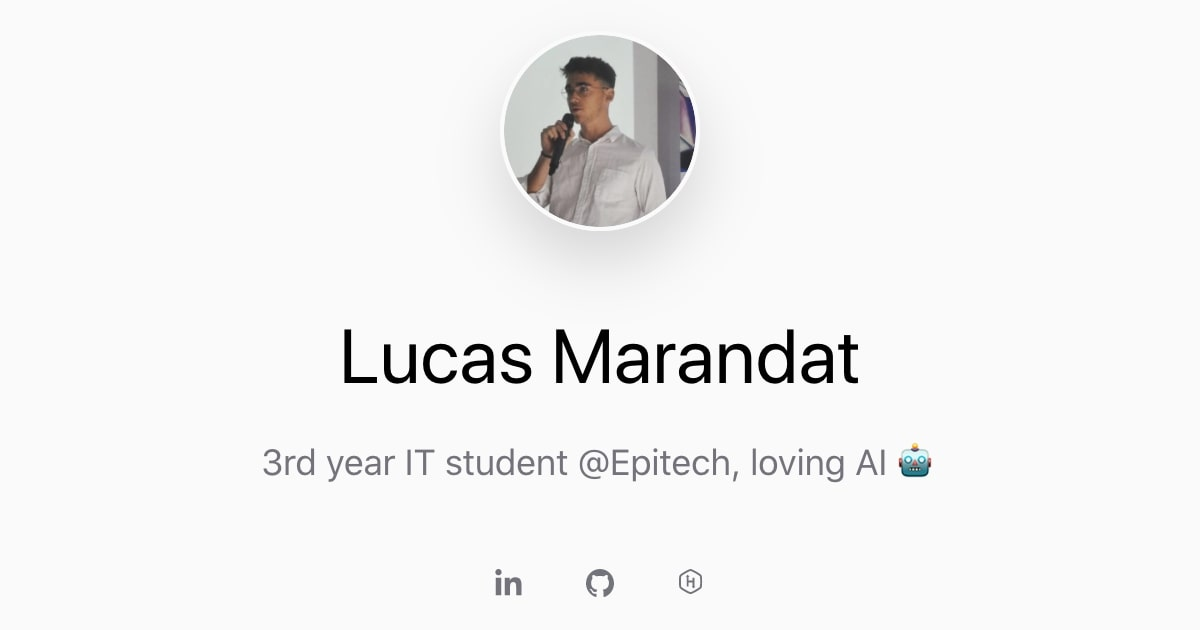
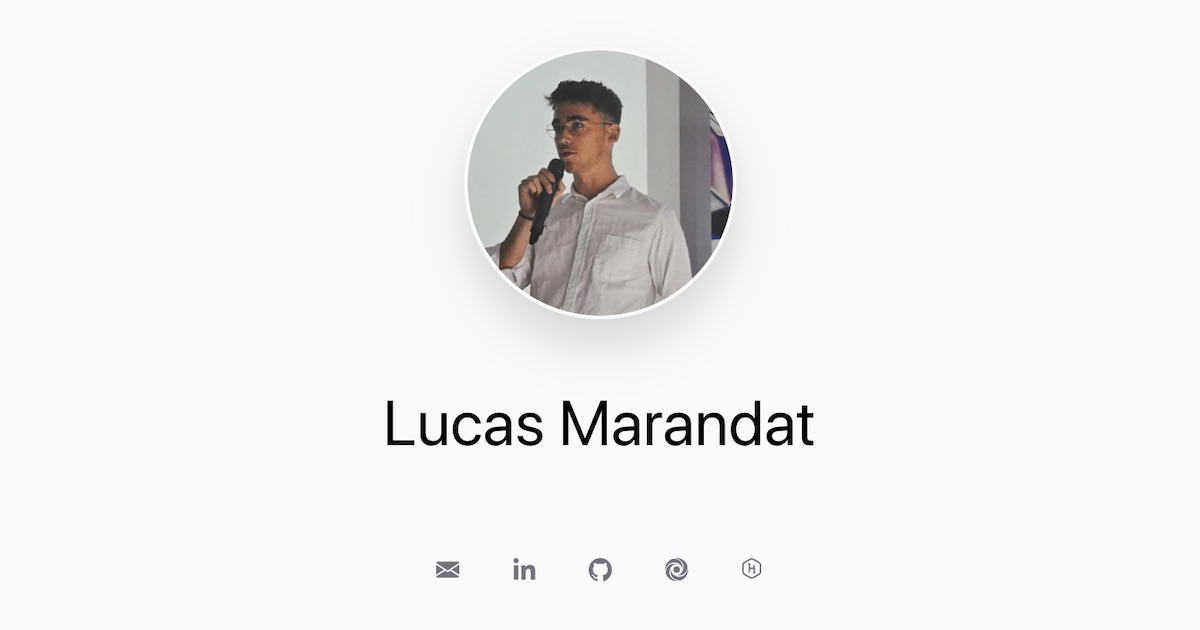
add social links and upgrade theme

diff --git a/src/@narative/gatsby-theme-novela/icons/social/Replit.icon.tsx b/src/@narative/gatsby-theme-novela/icons/social/Replit.icon.tsx
@@ -1,0 +1,26 @@
+import React from 'react';
+
+import {Icon} from '@types';
+
+const ReplitIcon: Icon = ({fill = 'white'}) => (
+  <svg
+    xmlns="http://www.w3.org/2000/svg"
+    viewBox="0 0 64 64"
+    width="14"
+    height="14">
+    <g fill={fill}>
+      <path d="M63.795 29.012l.148 2.933c0-1-.06-1.966-.148-2.933z" />
+      <path d="M16.405 28.843s-8.882 32.73 26.722 33.015a31.94 31.94 0 0 0 20.65-26.646c.086-.85.112-1.717.13-2.586l.034-.68c0-1-.06-1.966-.148-2.933-9.405 37.03-51.018 22.525-47.388-.17z" />
+    </g>
+    <path
+      d="M34.816 16.694S1.668 7.44 2.175 43.583c1.7 4.368 4.336 8.31 7.725 11.55.14.135.3.262.434.395.96.884 1.97 1.708 3.03 2.47.164.118.32.246.484.362a31.81 31.81 0 0 0 3.497 2.076c.35.18.7.346 1.07.514a31.61 31.61 0 0 0 3.194 1.296c.267.09.522.205.792.3 1.303.4 2.63.714 3.975.942.406.072.82.13 1.23.188a32.04 32.04 0 0 0 4.209.328c.054 0 .106.008.16.008 1.062 0 2.11-.057 3.146-.16-37.198-8.874-23.055-50.465-.305-47.147z"
+      fill={fill}
+    />
+    <path
+      d="M47.737 33.836S55.58.77 20.277 2.25A31.62 31.62 0 0 0 .387 36.29c7.43-37.4 49.758-25.297 47.35-2.452zm-16.95 14.23S63.995 52.4 61.917 20.83A31.77 31.77 0 0 0 26.207.55c37.003 4.542 27.386 47.838 4.58 47.515zm10.43-16.12a8.95 8.95 0 1 1-8.944-8.948 8.95 8.95 0 0 1 8.944 8.948z"
+      fill={fill}
+    />
+  </svg>
+);
+
+export default ReplitIcon;

diff --git a/src/@narative/gatsby-theme-novela/icons/social/Email.icon.tsx b/src/@narative/gatsby-theme-novela/icons/social/Email.icon.tsx
@@ -1,0 +1,41 @@
+import React from 'react';
+
+import {Icon} from '@types';
+
+const EmailIcon: Icon = ({fill = 'white'}) => (
+  <svg
+    version="1.1"
+    fill={fill}
+    width="14"
+    height="14"
+    xmlns="http://www.w3.org/2000/svg"
+    x="0px"
+    y="0px"
+    viewBox="0 0 512 512">
+    <g>
+      <g>
+        <polygon points="339.392,258.624 512,367.744 512,144.896 		" />
+      </g>
+    </g>
+    <g>
+      <g>
+        <polygon points="0,144.896 0,367.744 172.608,258.624 		" />
+      </g>
+    </g>
+    <g>
+      <g>
+        <path d="M480,80H32C16.032,80,3.36,91.904,0.96,107.232L256,275.264l255.04-168.032C508.64,91.904,495.968,80,480,80z" />
+      </g>
+    </g>
+    <g>
+      <g>
+        <path
+          d="M310.08,277.952l-45.28,29.824c-2.688,1.76-5.728,2.624-8.8,2.624c-3.072,0-6.112-0.864-8.8-2.624l-45.28-29.856
+        L1.024,404.992C3.488,420.192,16.096,432,32,432h448c15.904,0,28.512-11.808,30.976-27.008L310.08,277.952z"
+        />
+      </g>
+    </g>
+  </svg>
+);
+
+export default EmailIcon;

diff --git a/src/@narative/gatsby-theme-novela/icons/index.ts b/src/@narative/gatsby-theme-novela/icons/index.ts
@@ -14,6 +14,8 @@ import YouTube from '@theme/icons/social/YouTube.Icon';
 import Patreon from '@theme/icons/social/Patreon.Icon';
 import Paypal from '@theme/icons/social/Paypal.Icon';
 import HackerRank from './social/HackerRank.icon';
+import Email from './social/Email.icon';
+import Replit from './social/Replit.icon';
 import DigitalOcean from '@theme/icons/social/DigitalOcean.Icon';
 import TripAdvisor from '@theme/icons/social/TripAdvisor.Icon';
 
@@ -45,6 +47,8 @@ export default {
   Paypal,
   DigitalOcean,
   HackerRank,
+  Email,
+  Replit,
   TripAdvisor,
 
   ChevronLeft,

diff --git a/gatsby-config.js b/gatsby-config.js
@@ -19,12 +19,19 @@ module.exports = {
       maxWidth: 652,
     },
     social: [{
+        name: 'email',
+        url: 'mailto:contact@lucas-marandat.fr'
+      }, {
         name: 'linkedin',
         url: 'https://www.linkedin.com/in/lucasmrdt/',
       },
       {
         name: 'github',
         url: 'https://github.com/lucasmrdt',
+      },
+      {
+        name: 'replit',
+        url: 'https://repl.it/@lucasmrdt',
       },
       {
         name: 'hackerrank',

diff --git a/src/@narative/gatsby-theme-novela/components/SocialLinks/SocialLinks.tsx b/src/@narative/gatsby-theme-novela/components/SocialLinks/SocialLinks.tsx
@@ -16,6 +16,8 @@ const icons = {
   behance: Icons.Behance,
   dribbble: Icons.Dribbble,
   hackerrank: Icons.HackerRank,
+  email: Icons.Email,
+  replit: Icons.Replit,
   linkedin: Icons.LinkedIn,
   twitter: Icons.Twitter,
   facebook: Icons.Facebook,
@@ -38,6 +40,7 @@ const getHostname = url => {
 
 const SocialLinks: React.FC<SocialLinksProps> = ({links, fill = '#73737D'}) => {
   if (!links) return null;
+  console.log(links);
 
   return (
     <>
